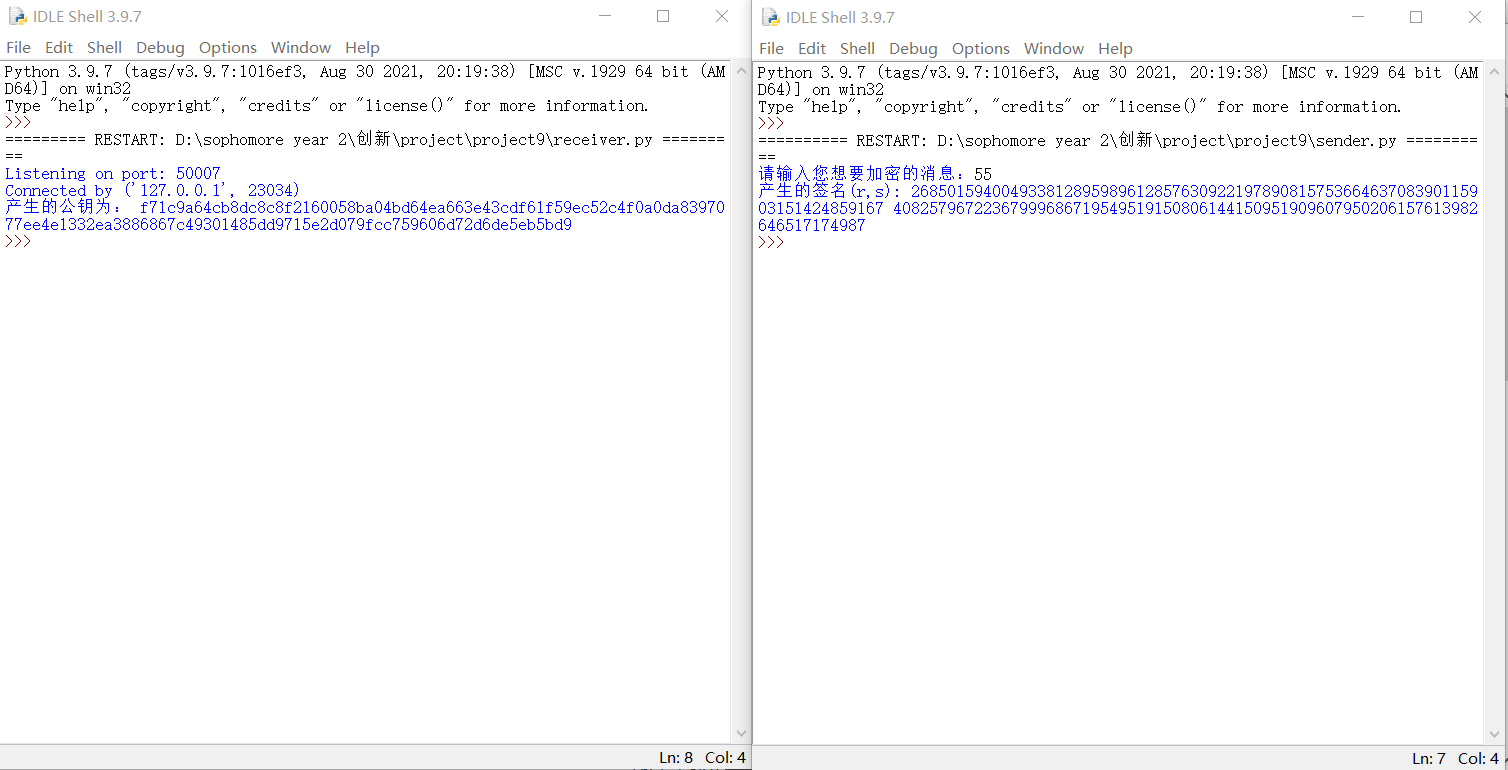
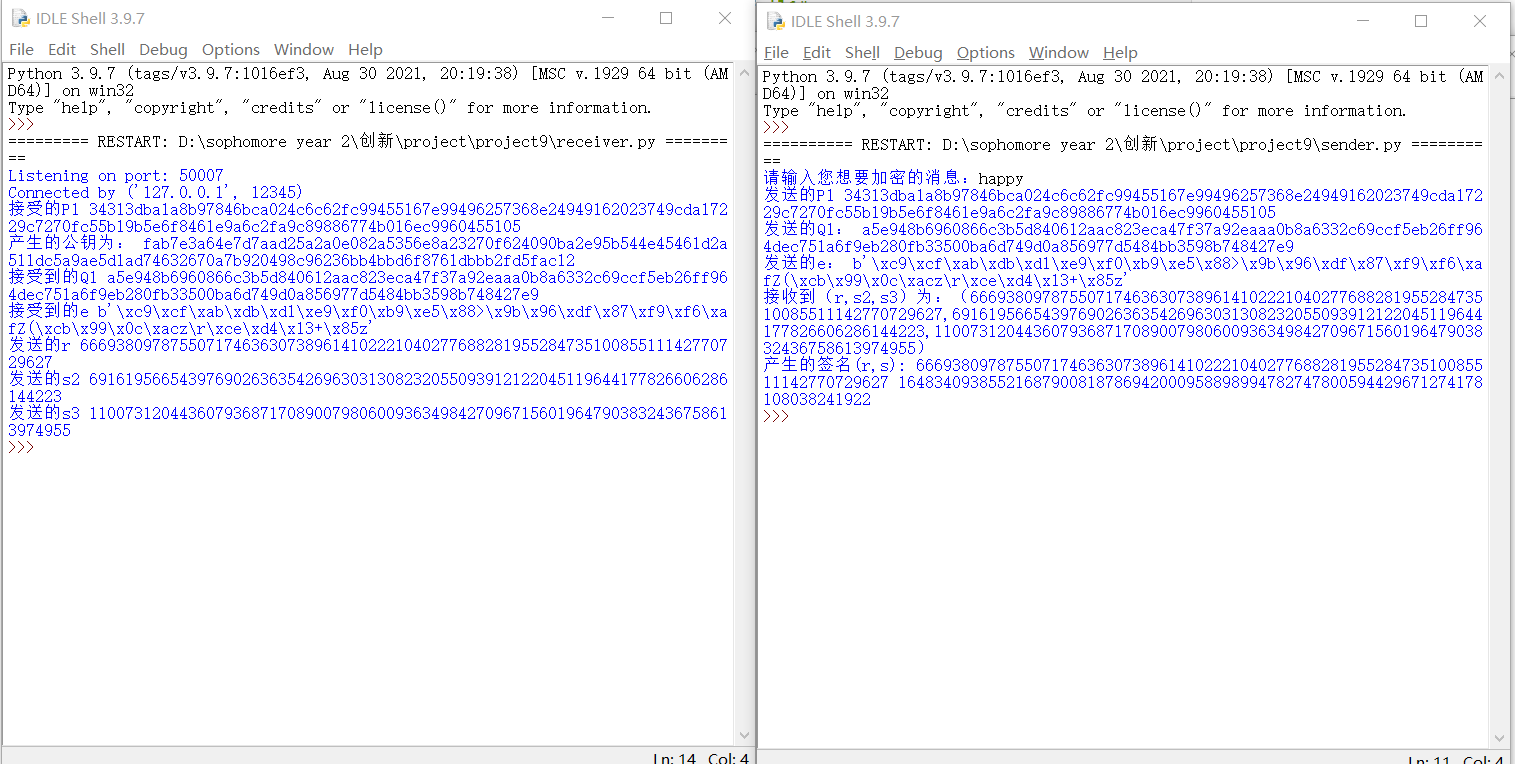
Add files via upload

Changed region(s): [[0.0, 0.0, 1.0, 1.0], [0.0, 0.9634, 0.5298, 1.0]]

diff --git a/project9/receiver.py b/project9/receiver.py
@@ -82,7 +82,7 @@ conn, addr = s.accept()
 print('Connected by', addr)
 
 P1 = conn.recv(1024).decode('utf-8')#接受P1
-
+print("接受的P1",P1)
 d2=generate_d2()
 P=generate_P(d2,P1)#产生公钥
 print("产生的公钥为：",P)
@@ -90,22 +90,27 @@ conn.sendall("OK".encode("utf-8"))
 
 
 Q1=conn.recv(1024).decode('utf-8')#接受Q1
+print("接受到的Q1",Q1)
 conn.sendall("OK".encode("utf-8"))
 
 e=conn.recv(1024)#接受e
+print("接受到的e",e)
 conn.sendall("OK".encode("utf-8"))
 
 
 r,s2,s3=generate_r_s2_s3(d2,Q1,e)#产生r,s2,s3并发送给另一个人
 
+print("发送的r",r)
 conn.sendall(hex(r)[2:].encode('utf-8'))
 an=conn.recv(1024)
 assert an.decode('utf-8')=="OK","fail1"
 
+print("发送的s2",s2)
 conn.sendall(hex(s2)[2:].encode('utf-8'))
 an=conn.recv(1024)
 assert an.decode('utf-8')=="OK","fail1"
 
+print("发送的s3",s3)
 conn.sendall(hex(s3)[2:].encode('utf-8'))
 an=conn.recv(1024)
 assert an.decode('utf-8')=="OK","fail1"

diff --git a/project9/sender.py b/project9/sender.py
@@ -72,15 +72,17 @@ except Exception as e:
 
 d1=generate_d1()
 P1=generate_P1(d1)
+print("发送的P1",P1)
 s.sendall(P1.encode('utf-8'))#发送P1
 an = s.recv(1024)
 assert an.decode('utf-8')=="OK","fail1"
 
 Q1,e,k1=generate_Q1_e(m,Z)#产生并发送Q1,e,k1
+print("发送的Q1：",Q1)
 s.sendall(Q1.encode('utf-8'))
 an = s.recv(1024)
 assert an.decode('utf-8')=="OK","fail2"
-
+print("发送的e：",e)
 s.sendall(e)
 an = s.recv(1024)
 assert an.decode('utf-8')=="OK","fail3"
@@ -93,6 +95,8 @@ s2=int(s.recv(1024).decode("utf-8"),16)
 s.sendall("OK".encode('utf-8'))
 s3=int(s.recv(1024).decode("utf-8"),16)
 s.sendall("OK".encode('utf-8'))
+print("接收到（r,s2,s3）为：（%d,%d,%d）"%(r,s2,s3))
+
 
 r,s=generate_sign(k1,d1,r,s2,s3)#产生签名
 print("产生的签名(r,s):",r,s)

diff --git a/project9/README.md b/project9/README.md
@@ -5,16 +5,6 @@
 ![是](./ppt.png)
 
 ## 代码说明：
-本次实验引用了gmssl库中关于sm2，sm4相关算法。引用了Crypto中的求逆
-
-```python
-import socket
-from gmssl import sm2 ,sm4
-import sys
-import random 
-from Crypto.Util.number import *
-from hashlib import sha256
-```
 
 ### 函数定义：
 
@@ -141,6 +131,7 @@ sender计算P1 ，发送给receiver
 ```python
 d1=generate_d1()
 P1=generate_P1(d1)
+print("发送的P1",P1)
 s.sendall(P1.encode('utf-8'))#发送P1
 ```
 
@@ -148,7 +139,7 @@ receiver 接受P1,并且计算出公钥P，并且通知sender继续下一步
 
 ```python
 P1 = conn.recv(1024).decode('utf-8')#接受P1
-
+print("接受的P1",P1)
 d2=generate_d2()
 P=generate_P(d2,P1)#产生公钥
 print("产生的公钥为：",P)
@@ -161,10 +152,11 @@ conn.sendall("OK".encode("utf-8"))
 assert an.decode('utf-8')=="OK","fail1"
 
 Q1,e,k1=generate_Q1_e(m,Z)#产生并发送Q1,e,k1
+print("发送的Q1：",Q1)
 s.sendall(Q1.encode('utf-8'))
 an = s.recv(1024)
 assert an.decode('utf-8')=="OK","fail2"
-
+print("发送的e：",e)
 s.sendall(e)
 an = s.recv(1024)
 assert an.decode('utf-8')=="OK","fail3"
@@ -181,15 +173,17 @@ conn.sendall("OK".encode("utf-8"))
 
 
 r,s2,s3=generate_r_s2_s3(d2,Q1,e)#产生r,s2,s3并发送给另一个人
-
+print("发送的r",r)
 conn.sendall(hex(r)[2:].encode('utf-8'))
 an=conn.recv(1024)
 assert an.decode('utf-8')=="OK","fail1"
 
+print("发送的s2",s2)
 conn.sendall(hex(s2)[2:].encode('utf-8'))
 an=conn.recv(1024)
 assert an.decode('utf-8')=="OK","fail1"
 
+print("发送的s3",s3)
 conn.sendall(hex(s3)[2:].encode('utf-8'))
 an=conn.recv(1024)
 assert an.decode('utf-8')=="OK","fail1"
@@ -204,7 +198,7 @@ s2=int(s.recv(1024).decode("utf-8"),16)
 s.sendall("OK".encode('utf-8'))
 s3=int(s.recv(1024).decode("utf-8"),16)
 s.sendall("OK".encode('utf-8'))
-
+print("接收到（r,s2,s3）为：（%d,%d,%d）"%(r,s2,s3))
 r,s=generate_sign(k1,d1,r,s2,s3)#产生签名
 print("产生的签名(r,s):",r,s)
 ```
